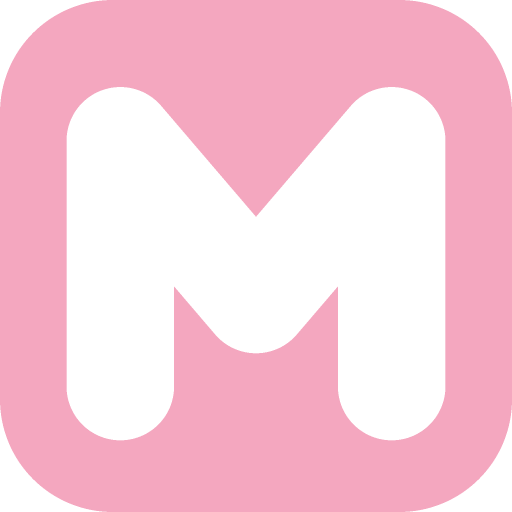
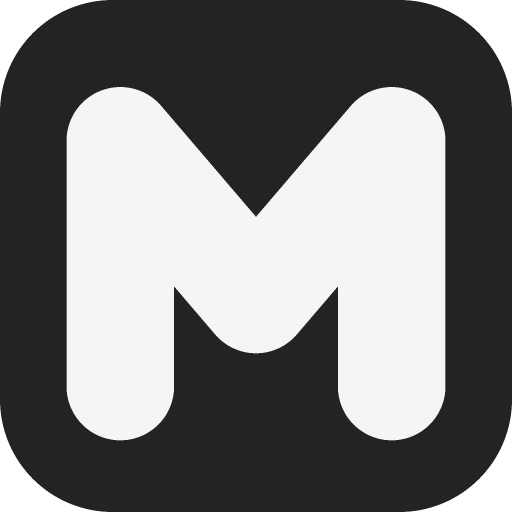
Add files via upload

diff --git a/styles.css b/styles.css
@@ -1,13 +1,13 @@
-/* ===== Mo's Management ===== */
+/* ===== Mo's Management — charcoal ===== */
 :root{
-  --bg:#FDF2F5;
-  --card:#FCE7EE;
-  --accent:#F4A7BF;
-  --btn:#E8879F;
-  --text:#1A1A1A;
-  --muted:#8C6B75;
-  --line:rgba(232,135,159,.22);
-  --shadow:0 2px 10px rgba(214,140,163,.13);
+  --bg:#161618;
+  --card:#232326;
+  --accent:#8E8E93;
+  --btn:#E9E9EC;
+  --text:#F5F5F5;
+  --muted:#9A9AA0;
+  --line:rgba(255,255,255,.08);
+  --shadow:0 2px 10px rgba(0,0,0,.4);
   --r:18px;
   --safe-t:env(safe-area-inset-top,0px);
   --safe-b:env(safe-area-inset-bottom,0px);
@@ -87,7 +87,7 @@ button{border:0;background:none;padding:0;cursor:pointer}
 }
 .pad-bottom{height:calc(28px + var(--safe-b))}
 
-/* ---- search + chips ---- */
+/* ---- search ---- */
 .list-head{flex:0 0 auto;padding:0 14px 8px}
 .search-wrap{position:relative;display:flex;align-items:center}
 .search-ic{position:absolute;left:12px;width:19px;height:19px;color:var(--muted);opacity:.7;pointer-events:none}
@@ -99,6 +99,7 @@ button{border:0;background:none;padding:0;cursor:pointer}
   -webkit-appearance:none;appearance:none;
   font-size:17px;
 }
+#search::placeholder{color:var(--muted)}
 #search::-webkit-search-decoration,#search::-webkit-search-cancel-button{-webkit-appearance:none;appearance:none}
 #search:focus{outline:2px solid var(--accent);outline-offset:-2px}
 .search-clear{
@@ -106,6 +107,7 @@ button{border:0;background:none;padding:0;cursor:pointer}
   width:30px;height:30px;border-radius:50%;
   font-size:22px;line-height:1;color:var(--muted);
 }
+
 /* ---- notes on the client page ---- */
 .section-row{
   display:flex;align-items:center;justify-content:space-between;
@@ -115,8 +117,8 @@ button{border:0;background:none;padding:0;cursor:pointer}
 .add-note-btn{
   width:40px;height:40px;border-radius:14px;
   display:flex;align-items:center;justify-content:center;
-  background:var(--btn);color:#fff;
-  box-shadow:0 3px 10px rgba(232,135,159,.35);
+  background:var(--btn);color:#141416;
+  box-shadow:0 3px 10px rgba(0,0,0,.35);
 }
 .add-note-btn .ic{width:21px;height:21px;stroke-width:2.4}
 .add-note-btn:active{transform:scale(.94);opacity:.85}
@@ -128,7 +130,7 @@ button{border:0;background:none;padding:0;cursor:pointer}
   padding:13px 16px 14px;
   margin-bottom:12px;
 }
-.note-card:active{background:#F8DBE5}
+.note-card:active{background:#2C2C30}
 .note-date{
   display:block;
   font-size:12.5px;font-weight:800;letter-spacing:.7px;
@@ -166,7 +168,7 @@ button{border:0;background:none;padding:0;cursor:pointer}
   position:relative;
   display:flex;align-items:center;gap:10px;
   width:100%;
-  padding:14px 14px 14px 16px;
+  padding:15px 14px 15px 16px;
   text-align:left;
   background:var(--card);
   will-change:transform;
@@ -175,18 +177,14 @@ button{border:0;background:none;padding:0;cursor:pointer}
 .row.settle{transition:transform .22s cubic-bezier(.3,.9,.4,1)}
 .row-main{flex:1 1 auto;min-width:0;display:block}
 .row-name{display:block;font-size:17px;font-weight:600;white-space:nowrap;overflow:hidden;text-overflow:ellipsis}
-.row-meta{
-  display:block;font-size:13.5px;color:var(--muted);
-  white-space:nowrap;overflow:hidden;text-overflow:ellipsis;margin-top:1px;
-}
 .row-chev{flex:0 0 auto;width:17px;height:17px;color:var(--accent);
   fill:none;stroke:currentColor;stroke-width:2.4;stroke-linecap:round;stroke-linejoin:round}
-.row:active{background:#F8DBE5}
+.row:active{background:#2C2C30}
 .row-del{
   position:absolute;top:0;right:0;bottom:0;width:96px;
   display:flex;align-items:center;justify-content:center;
   visibility:hidden;
-  background:#E2536F;color:#fff;font-weight:700;font-size:16px;
+  background:var(--btn);color:#141416;font-weight:700;font-size:16px;
 }
 .row-wrap.armed .row-del{visibility:visible}
 
@@ -215,13 +213,6 @@ button{border:0;background:none;padding:0;cursor:pointer}
   overflow:hidden;
 }
 .card + .card{margin-top:12px}
-.dt{padding:12px 16px}
-.dt + .dt{border-top:1px solid var(--line)}
-.dt-lbl{font-size:12.5px;font-weight:800;letter-spacing:.7px;text-transform:uppercase;color:var(--muted)}
-.dt-val{
-  margin-top:3px;font-size:17px;white-space:pre-wrap;word-break:break-word;
-  -webkit-user-select:text;user-select:text;
-}
 
 /* ---- forms ---- */
 .field{display:block;padding:10px 16px 12px;position:relative}
@@ -234,11 +225,13 @@ button{border:0;background:none;padding:0;cursor:pointer}
   -webkit-appearance:none;appearance:none;border-radius:0;
   -webkit-user-select:text;user-select:text;
 }
+.field input::placeholder,.card textarea::placeholder{color:var(--muted)}
 .field input:focus,.card textarea:focus{outline:none}
 .card textarea{
   padding:14px 16px;margin:0;resize:none;
   line-height:1.5;min-height:150px;display:block;
 }
+
 /* ---- buttons ---- */
 .card-actions{display:flex;flex-direction:column}
 .row-btn{
@@ -246,7 +239,7 @@ button{border:0;background:none;padding:0;cursor:pointer}
   padding:14px 16px;text-align:left;font-size:17px;font-weight:600;color:var(--text);
 }
 .row-btn + .row-btn{border-top:1px solid var(--line)}
-.row-btn:active{background:#F8DBE5}
+.row-btn:active{background:#2C2C30}
 .row-sub{font-size:13.5px;font-weight:400;color:var(--muted);margin-top:1px}
 .kv{display:flex;justify-content:space-between;gap:12px;padding:12px 16px;font-size:16px}
 .kv + .kv{border-top:1px solid var(--line)}
@@ -255,42 +248,24 @@ button{border:0;background:none;padding:0;cursor:pointer}
 .danger-wrap{margin-top:26px}
 .btn-danger{
   width:100%;padding:15px;border-radius:var(--r);
-  background:var(--card);color:#D2415F;font-weight:700;font-size:17px;
+  background:var(--card);color:#fff;font-weight:700;font-size:17px;
   box-shadow:var(--shadow);
 }
 .btn-danger:active{opacity:.65}
 
-/* ---- action sheet ---- */
-.sheet-backdrop,.modal-backdrop{
+/* ---- confirm modal ---- */
+.modal-backdrop{
   position:fixed;inset:0;z-index:50;
-  background:rgba(60,30,40,.32);
+  background:rgba(0,0,0,.55);
   display:flex;
   -webkit-backdrop-filter:blur(2px);backdrop-filter:blur(2px);
+  align-items:center;justify-content:center;padding:24px;
 }
-.sheet-backdrop{align-items:flex-end;justify-content:center}
-.sheet{
-  width:100%;max-width:520px;
-  padding:0 10px calc(10px + var(--safe-b));
-  animation:rise .22s cubic-bezier(.2,.9,.3,1);
-}
-@keyframes rise{from{transform:translateY(24px);opacity:.4}to{transform:none;opacity:1}}
-.sheet-btn{
-  display:block;width:100%;
-  padding:17px;margin-top:8px;
-  border-radius:20px;background:#fff;
-  font-size:18px;font-weight:600;color:var(--btn);
-  box-shadow:0 4px 18px rgba(120,60,80,.16);
-}
-.sheet-btn:active{background:#FBEAF0}
-.sheet-cancel{margin-top:10px;color:var(--muted);font-weight:700}
-
-/* ---- confirm modal ---- */
-.modal-backdrop{align-items:center;justify-content:center;padding:24px}
 .modal{
   width:100%;max-width:340px;
-  background:#fff;border-radius:22px;
+  background:#242428;border-radius:22px;
   padding:22px 20px 16px;text-align:center;
-  box-shadow:0 10px 40px rgba(120,60,80,.25);
+  box-shadow:0 10px 40px rgba(0,0,0,.5);
   animation:pop .18s ease-out;
 }
 @keyframes pop{from{transform:scale(.94);opacity:.5}to{transform:none;opacity:1}}
@@ -298,9 +273,9 @@ button{border:0;background:none;padding:0;cursor:pointer}
 .modal p{margin:0 0 18px;font-size:15px;color:var(--muted);line-height:1.45}
 .modal-btns{display:flex;gap:10px}
 .btn-soft,.btn-solid{flex:1;padding:13px;border-radius:15px;font-size:16px;font-weight:700}
-.btn-soft{background:var(--card);color:var(--text)}
-.btn-solid{background:var(--btn);color:#fff}
-.btn-solid-danger{background:#E2536F}
+.btn-soft{background:#39393E;color:var(--text)}
+.btn-solid{background:var(--btn);color:#141416}
+.btn-solid-danger{background:#fff;color:#141416}
 .btn-soft:active,.btn-solid:active{opacity:.7}
 
 /* ---- toast ---- */
@@ -310,9 +285,9 @@ button{border:0;background:none;padding:0;cursor:pointer}
   bottom:calc(26px + var(--safe-b));
   max-width:86%;
   padding:12px 20px;border-radius:18px;
-  background:rgba(26,26,26,.9);color:#fff;
+  background:rgba(245,245,245,.96);color:#141416;
   font-size:15px;font-weight:600;text-align:center;
-  box-shadow:0 6px 22px rgba(0,0,0,.22);
+  box-shadow:0 6px 22px rgba(0,0,0,.4);
   animation:pop .18s ease-out;
 }
 

diff --git a/app.js b/app.js
@@ -6,7 +6,7 @@
 (function () {
 'use strict';
 
-var APP_VERSION = '2.0';
+var APP_VERSION = '2.1';
 var DB_NAME = 'mos-management';
 var DB_VERSION = 1;
 var STORE_CLIENTS = 'clients';
@@ -311,13 +311,6 @@ $('confirm-backdrop').addEventListener('click', function (e) {
    Client list rendering — chunked, grows on scroll, so a
    keystroke costs the same at 5 clients or 5,000.
    ------------------------------------------------------------ */
-function summaryOf(c) {
-  if (!c.notes.length) return '';
-  var n = c.notes[0]; // newest first
-  var line = trim(n.text).split('\n')[0];
-  return fmtDate(n.date) + (line ? '  ·  ' + line : '');
-}
-
 function letterOf(c) {
   var ch = c._k.charAt(0).toUpperCase();
   return ch >= 'A' && ch <= 'Z' ? ch : '#';
@@ -340,13 +333,11 @@ var CHUNK = 60;
 var render = { list: [], cursor: 0, letter: null, grp: null };
 
 function rowHtml(c) {
-  var meta = summaryOf(c);
   return '<div class="row-wrap" data-id="' + esc(c.id) + '">' +
            '<button type="button" class="row-del" data-del="' + esc(c.id) + '">Delete</button>' +
            '<div class="row" role="button" tabindex="0">' +
              '<span class="row-main">' +
                '<span class="row-name">' + esc(c.name || 'Untitled') + '</span>' +
-               (meta ? '<span class="row-meta">' + esc(meta) + '</span>' : '') +
              '</span>' + CHEV +
            '</div>' +
          '</div>';
@@ -406,7 +397,7 @@ function renderList() {
     if (state.query) {
       emptyEl.innerHTML = '<b>🔍</b>No clients match “' + esc(state.query) + '”.';
     } else {
-      emptyEl.innerHTML = '<b>💕</b>No clients yet — tap + to add your first.';
+      emptyEl.innerHTML = '<b>🤍</b>No clients yet — tap + to add your first.';
     }
     return;
   }
@@ -475,6 +466,9 @@ var listHost = $('client-list');
 
 listHost.addEventListener('touchstart', function (e) {
   if (e.touches.length !== 1) { resetSwipe(); return; }
+  // A tap on the revealed Delete button must reach it as a click —
+  // don't snap the row shut underneath the finger.
+  if (e.target.closest('.row-del')) { resetSwipe(); sw.moved = false; return; }
   var row = e.target.closest('.row');
   sw.moved = false;
 

diff --git a/index.html b/index.html
@@ -4,11 +4,11 @@
 <meta charset="utf-8">
 <title>Mo's Management</title>
 <meta name="viewport" content="width=device-width, initial-scale=1, maximum-scale=1, viewport-fit=cover">
-<meta name="theme-color" content="#F4A7BF">
-<meta name="color-scheme" content="light">
+<meta name="theme-color" content="#161618">
+<meta name="color-scheme" content="dark">
 <meta name="apple-mobile-web-app-capable" content="yes">
 <meta name="mobile-web-app-capable" content="yes">
-<meta name="apple-mobile-web-app-status-bar-style" content="default">
+<meta name="apple-mobile-web-app-status-bar-style" content="black-translucent">
 <meta name="apple-mobile-web-app-title" content="Mo's">
 <link rel="manifest" href="manifest.json">
 <link rel="apple-touch-icon" href="icons/apple-touch-icon.png">

diff --git a/sw.js b/sw.js
@@ -1,7 +1,7 @@
 /* Mo's Management — service worker.
    Precaches every asset so the app runs 100% offline after the first visit.
    Bump CACHE when you change any file. */
-var CACHE = 'mos-management-v2';
+var CACHE = 'mos-management-v3';
 
 var ASSETS = [
   './',
